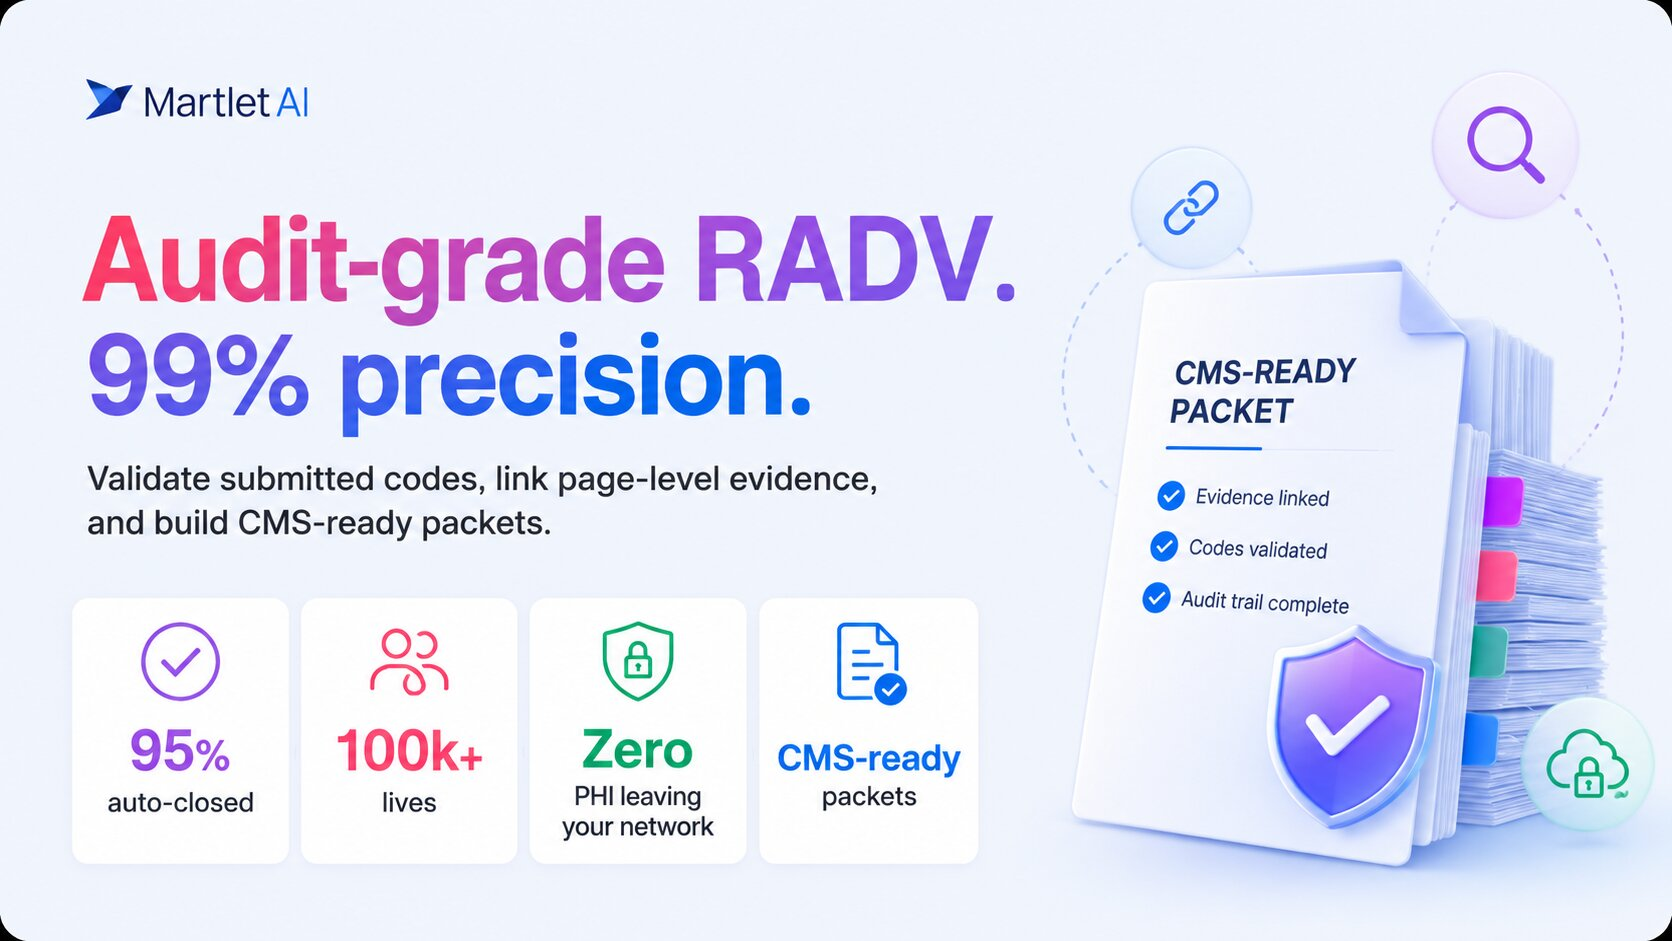
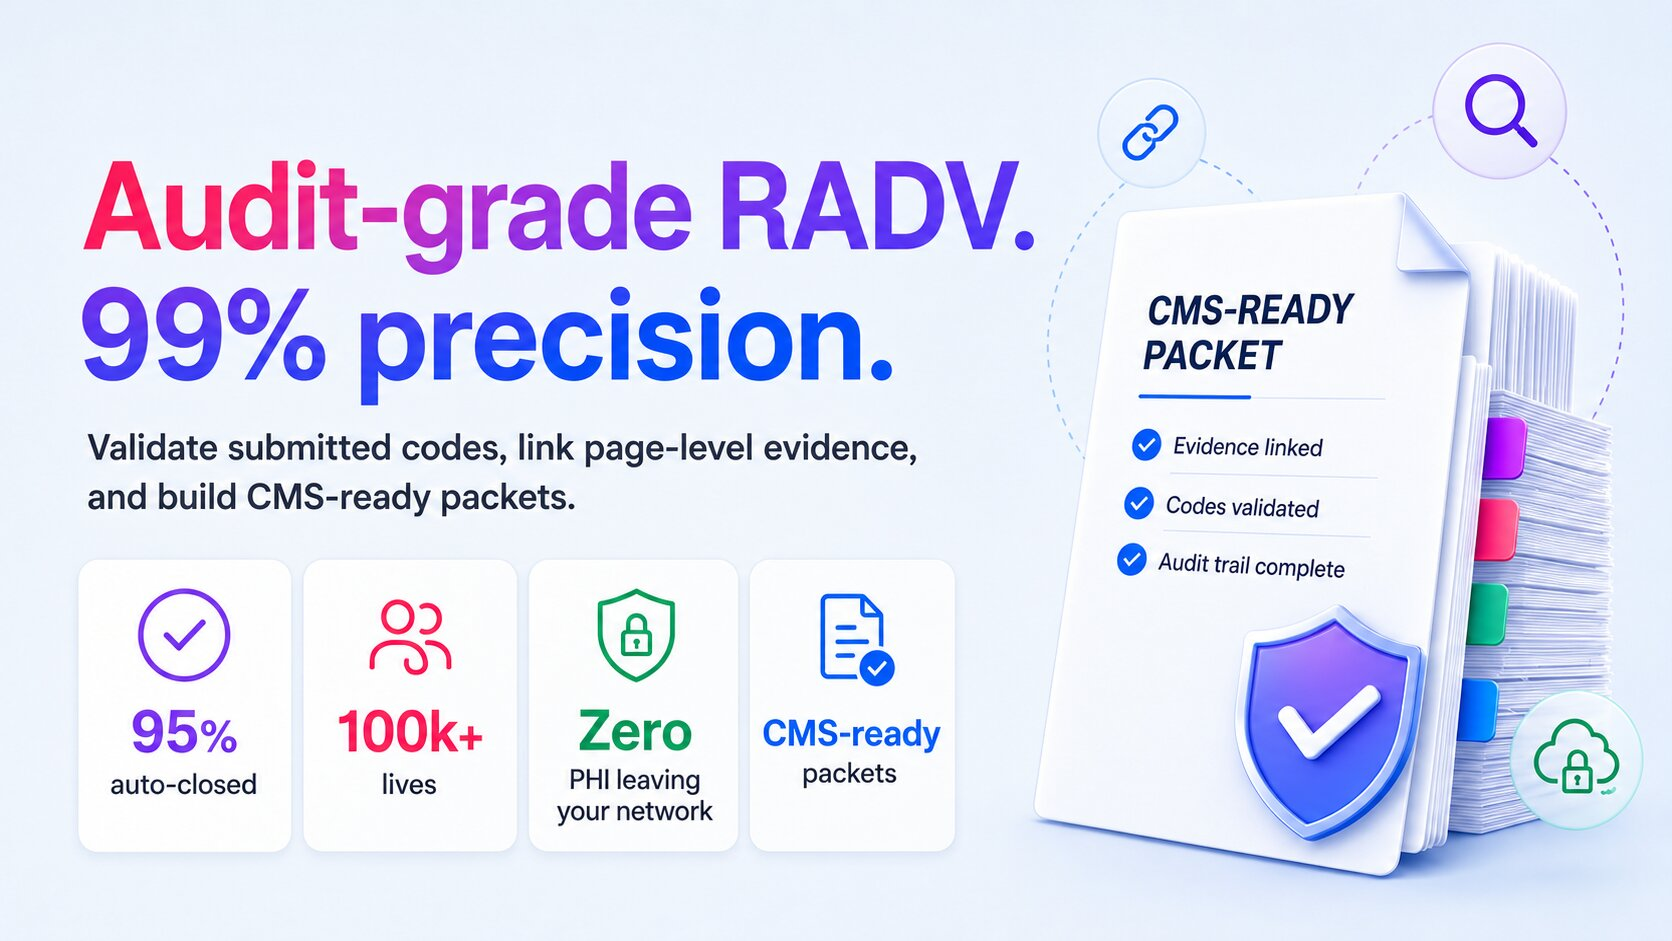
Revert brochure PDF names to non-branded convention, fix RADV image border
Simpler than adding 301 redirects: rename all three PDFs back to a
consistent non-branded style (Automated RADV Validation.pdf, Automate
Retrospective Coding.pdf, Automate HEDIS Gap Closure.pdf) rather than
mixing branded and unbranded names. Since these exact URLs never changed
for two of the three, and RADV's branded name was only live for a few
minutes, this avoids redirect complexity entirely with no SEO cost.

Also fixes the RADV thumbnail: the source graphic had a black
rounded-rectangle border baked into the export, which the card's own
corner-rounding only masked on two sides — visible as a stray black sliver
at the bottom corners. Re-exported edge-to-edge, matching the other two.

diff --git a/src/lib/brochures.ts b/src/lib/brochures.ts
@@ -26,8 +26,8 @@ export const BROCHURES: Brochure[] = [
     excerpt:
       "How your submitted codes get checked, evidenced and packaged for CMS — and what your coders do with the results.",
     thumbnail: "/assets/brochures/martlet-ai-radv-preparation.jpg",
-    pdfPath: "/brochures/Martlet AI RADV Preparation.pdf",
-    pdfFilename: "Martlet AI RADV Preparation.pdf",
+    pdfPath: "/brochures/Automated RADV Validation.pdf",
+    pdfFilename: "Automated RADV Validation.pdf",
     tag: "RADV",
   },
   {
@@ -38,8 +38,8 @@ export const BROCHURES: Brochure[] = [
     excerpt:
       "See how our retrospective engine finds undercoded HCCs while validating existing ones to maximize revenue and minimize audit risk.",
     thumbnail: "/assets/brochures/automate-retrospective-coding.jpg",
-    pdfPath: "/brochures/Martlet AI Automate Retrospective Coding.pdf",
-    pdfFilename: "Martlet AI Automate Retrospective Coding.pdf",
+    pdfPath: "/brochures/Automate Retrospective Coding.pdf",
+    pdfFilename: "Automate Retrospective Coding.pdf",
     tag: "Retrospective",
   },
   {
@@ -50,8 +50,8 @@ export const BROCHURES: Brochure[] = [
     excerpt:
       "Explore how AI-powered chart review and gap identification help quality teams improve measure performance and member outcomes.",
     thumbnail: "/assets/brochures/automate-hedis-gap-closure.jpg",
-    pdfPath: "/brochures/Martlet AI Automate HEDIS Gap Closure.pdf",
-    pdfFilename: "Martlet AI Automate HEDIS Gap Closure.pdf",
+    pdfPath: "/brochures/Automate HEDIS Gap Closure.pdf",
+    pdfFilename: "Automate HEDIS Gap Closure.pdf",
     tag: "HEDIS",
   },
 ];
